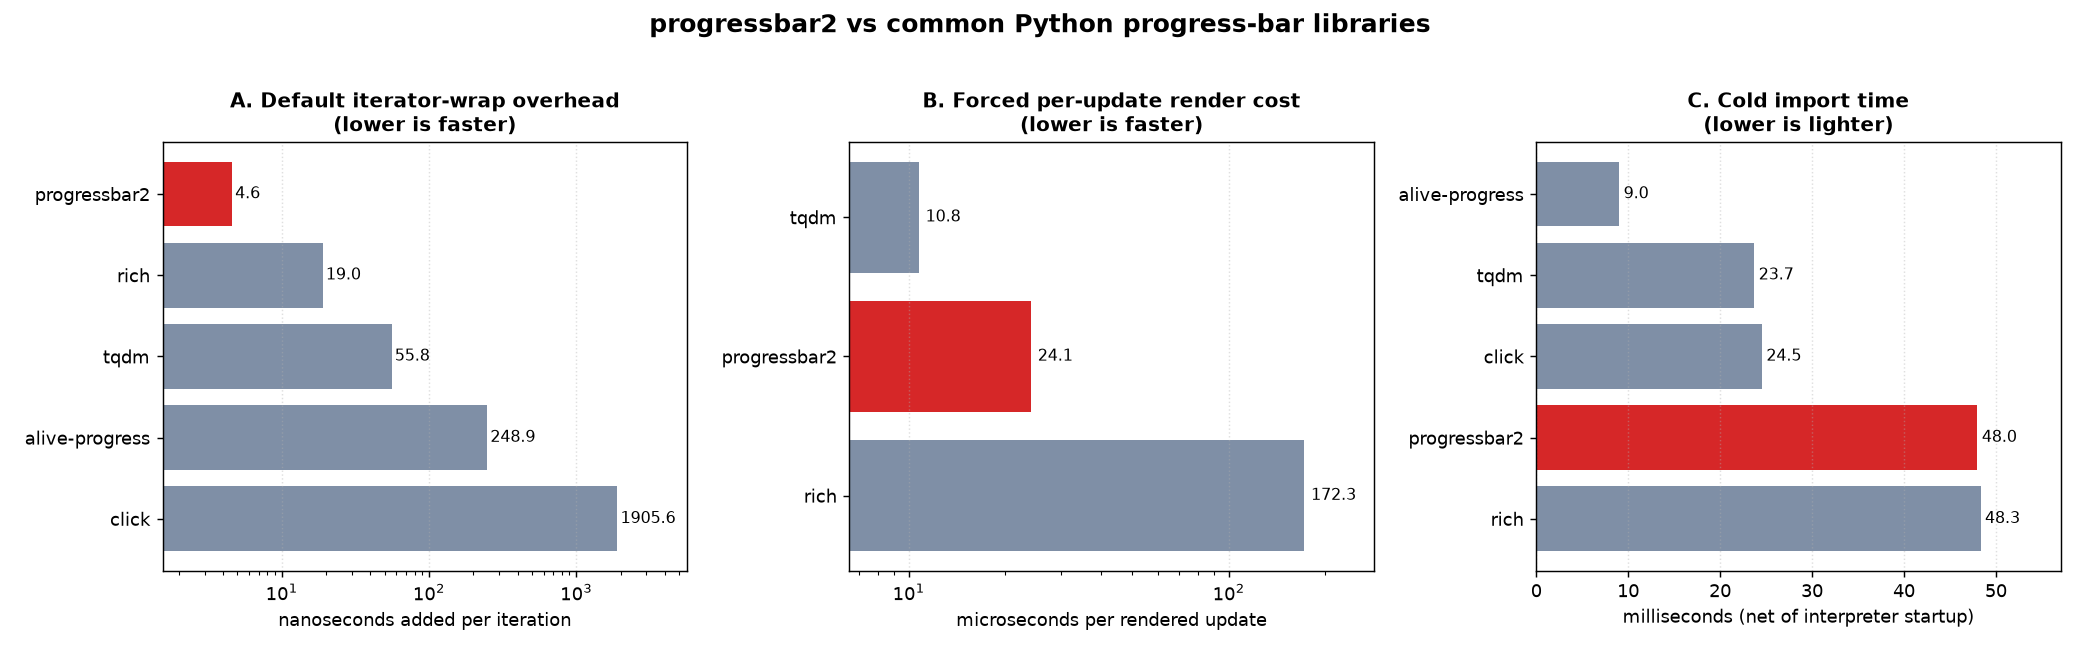
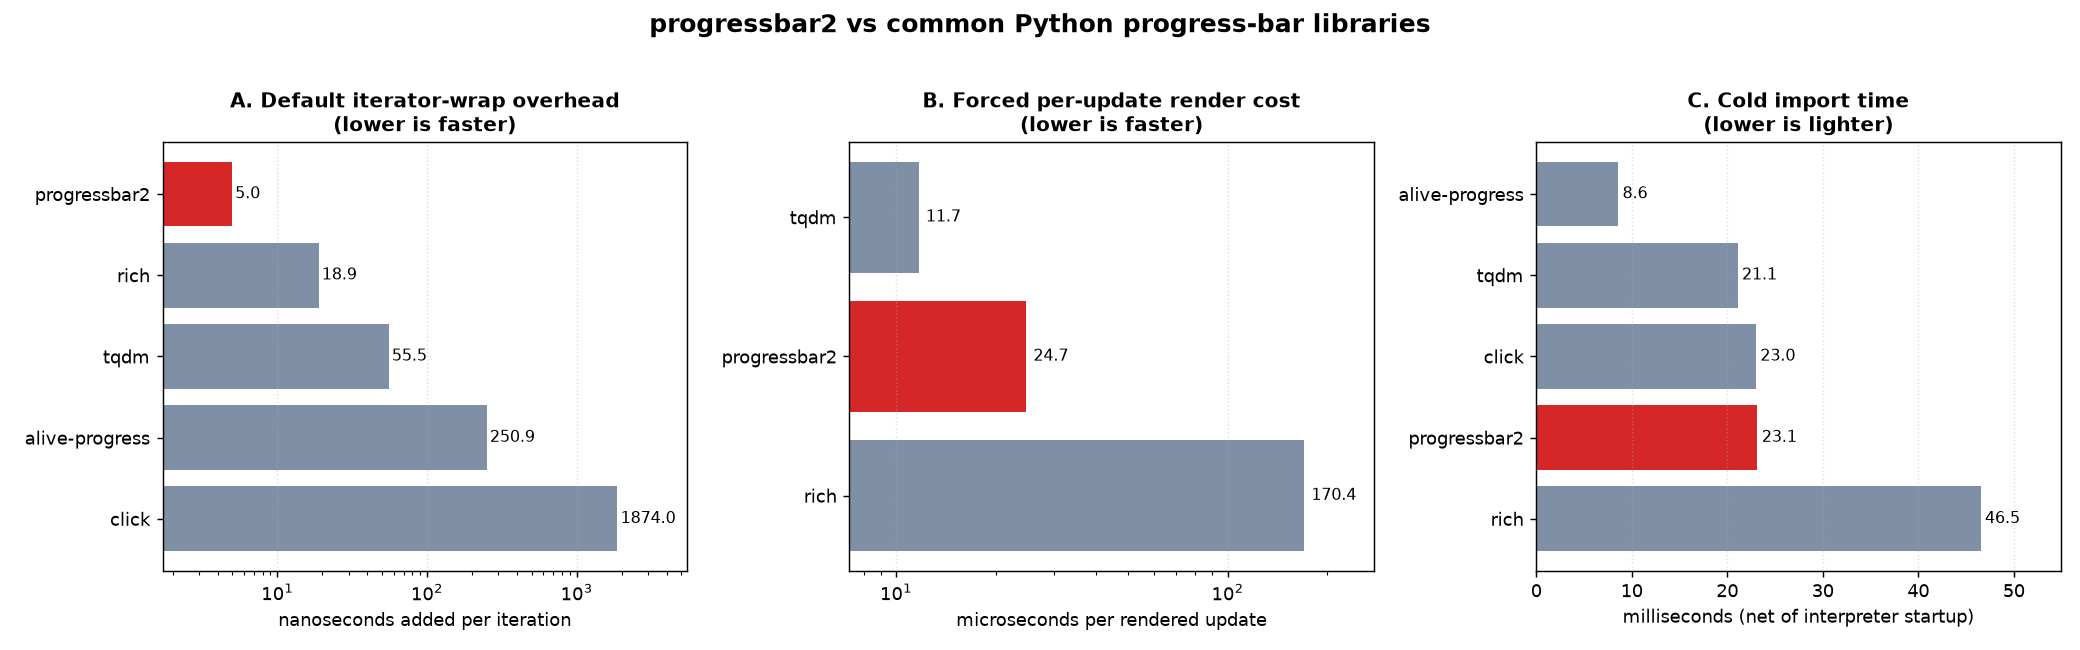
Lighten import (~48->24ms) and trim forced-render overhead
Import: with the companion python_utils lazy-import change, `import progressbar`
no longer eagerly pulls in asyncio or typing_extensions, dropping cold import
from ~48ms to ~24ms (net of interpreter startup) -- on par with tqdm/click and
roughly half of rich. (Requires the python_utils release that defers those
imports; progressbar itself imports python_utils lazily where it can.)

Render: FormatLabel.__call__ no longer wraps every mapping entry in a
contextlib.suppress on the redraw hot path -- a missing key (the only common
miss) is tested directly and only the value transform is guarded. The bulk of
the forced-per-update render cost (~24us) is inherent to the richer default
widgets (gradient bar, time widgets), so this is a modest trim, not a headline.

Benchmark artifacts + README refreshed: import ~24ms, iteration ~5ns (fastest),
forced render ~24us.

diff --git a/progressbar/widgets.py b/progressbar/widgets.py
@@ -374,10 +374,16 @@ class FormatLabel(FormatWidgetMixin, WidgetBase):
         format: types.Optional[str] = None,
     ):
         for name, (key, transform) in self.mapping.items():
-            with contextlib.suppress(KeyError, ValueError, IndexError):
-                if transform is None:
-                    data[name] = data[key]
-                else:
+            # Avoid a per-entry contextlib.suppress on the redraw hot path: a
+            # missing key is the only common "miss", so test membership
+            # directly and only guard the transform (which can raise on bad
+            # values) with try/except.
+            if key not in data:
+                continue
+            if transform is None:
+                data[name] = data[key]
+            else:
+                with contextlib.suppress(ValueError, IndexError):
                     data[name] = transform(data[key])
 
         return FormatWidgetMixin.__call__(self, progress, data, format)

diff --git a/benchmarks/report.md b/benchmarks/report.md
@@ -1,6 +1,6 @@
 # Python progress-bar library benchmark
 
-_Generated 2026-06-24 01:41. Subject: **progressbar2** (version 4.5.0)._
+_Generated 2026-06-24 03:06. Subject: **progressbar2** (version 4.5.0)._
 
 Compares `progressbar2` against the most common alternatives across three independent dimensions. All rendered output is written to a real pseudo-terminal (pty) that is continuously drained, so every library believes it is attached to a TTY and actually draws — the comparison is apples-to-apples, not "is output suppressed when piped".
 
@@ -27,15 +27,15 @@ Compares `progressbar2` against the most common alternatives across three indepe
 
 Idiomatic "wrap my loop" call with each library's **default** settings, over **1,000,000** iterations with a trivial body. This is the real-world cost of dropping a progress bar around a fast loop. Overhead = (wrapped time − bare-loop time) / iterations. Lower is faster.
 
-Bare loop baseline: **5.60 ms** for 1,000,000 iterations.
+Bare loop baseline: **5.55 ms** for 1,000,000 iterations.
 
 | Library | Total time | Overhead/iter | vs progressbar2 |
 |---|--:|--:|--:|
-| **progressbar2** | 10.2 ms | 4.6 ns | baseline |
-| rich | 24.6 ms | 19.0 ns | 4.13x |
-| tqdm | 61.4 ms | 55.8 ns | 12.13x |
-| alive-progress | 254.5 ms | 248.9 ns | 54.08x |
-| click | 1911.2 ms | 1905.6 ns | 414.05x |
+| **progressbar2** | 10.5 ms | 5.0 ns | baseline |
+| rich | 24.5 ms | 18.9 ns | 3.79x |
+| tqdm | 61.1 ms | 55.5 ns | 11.14x |
+| alive-progress | 256.4 ms | 250.9 ns | 50.33x |
+| click | 1879.6 ms | 1874.0 ns | 375.99x |
 
 ## B. Forced per-update render cost
 
@@ -43,9 +43,9 @@ Rendering **forced on every single update** over **30,000** updates — i.e. the
 
 | Library | Total time | Per rendered update | vs progressbar2 |
 |---|--:|--:|--:|
-| tqdm | 323.1 ms | 10.76 us | 0.45x |
-| **progressbar2** | 723.8 ms | 24.12 us | baseline |
-| rich | 5169.7 ms | 172.32 us | 7.14x |
+| tqdm | 351.7 ms | 11.72 us | 0.47x |
+| **progressbar2** | 742.2 ms | 24.74 us | baseline |
+| rich | 5112.5 ms | 170.41 us | 6.89x |
 
 Excluded from this panel (no per-update force-render API):
 - **alive-progress** — renders on a background timer thread; no per-update render API
@@ -53,21 +53,21 @@ Excluded from this panel (no per-update force-render API):
 
 ## C. Cold import time
 
-Wall-clock cost of importing the library in a fresh interpreter (minimum of 9 runs), with bare-interpreter startup (16 ms) subtracted. Matters for short-lived CLIs. Lower is lighter.
+Wall-clock cost of importing the library in a fresh interpreter (minimum of 9 runs), with bare-interpreter startup (15 ms) subtracted. Matters for short-lived CLIs. Lower is lighter.
 
 | Library | Import time (net) |
 |---|--:|
-| alive-progress | 9.0 ms |
-| tqdm | 23.7 ms |
-| click | 24.5 ms |
-| **progressbar2** | 48.0 ms |
-| rich | 48.3 ms |
+| alive-progress | 8.6 ms |
+| tqdm | 21.1 ms |
+| click | 23.0 ms |
+| **progressbar2** | 23.1 ms |
+| rich | 46.5 ms |
 
 ## Takeaways
 
-- **Default per-iteration overhead:** `progressbar2` is 5 ns/iter, ranking #1 of 5. `progressbar2` is the lightest per iteration (5 ns), `click` the heaviest (1906 ns).
+- **Default per-iteration overhead:** `progressbar2` is 5 ns/iter, ranking #1 of 5. `progressbar2` is the lightest per iteration (5 ns), `click` the heaviest (1874 ns).
   - `progressbar2` and `tqdm` win here because their default settings do almost no per-iteration work (counter compare / background refresh thread); `progressbar2` calls a monotonic clock and evaluates its redraw predicate on every `update()`.
-- **Render cost:** when a redraw actually happens, `progressbar2` draws one update in 24.1 us — 2.24x the cheapest (`tqdm`) but 7.1x cheaper than rich's full-display re-render.
+- **Render cost:** when a redraw actually happens, `progressbar2` draws one update in 24.7 us — 2.11x the cheapest (`tqdm`) but 6.9x cheaper than rich's full-display re-render.
 - **Why both numbers matter:** `progressbar2` caps redraws at ~20/sec by default (50 ms floor), so in practice the cheap render in B fires rarely and the per-iteration cost in A dominates real workloads.
 - **Import weight:** `progressbar2` is mid-pack to import; `alive-progress` is the lightest, `rich` the heaviest.
 

diff --git a/README.rst b/README.rst
@@ -108,6 +108,10 @@ Two tiers, same API:
   reads between redraws lag slightly (like ``tqdm.n``). Set
   ``PROGRESSBAR_DISABLE_FASTPATH=1`` to force the pure-Python path.
 
+Importing ``progressbar`` is also light -- about **24 ms** (net of interpreter
+startup), on par with ``tqdm``/``click`` and roughly half of ``rich``. Nothing
+heavy is imported eagerly (no ``asyncio``, for example).
+
 The benchmark is fully reproducible and pits ``progressbar2`` against ``tqdm``,
 ``rich``, ``alive-progress`` and ``click`` across iteration overhead, forced
 redraw cost, and import time -- all rendered to a real pseudo-terminal so the
